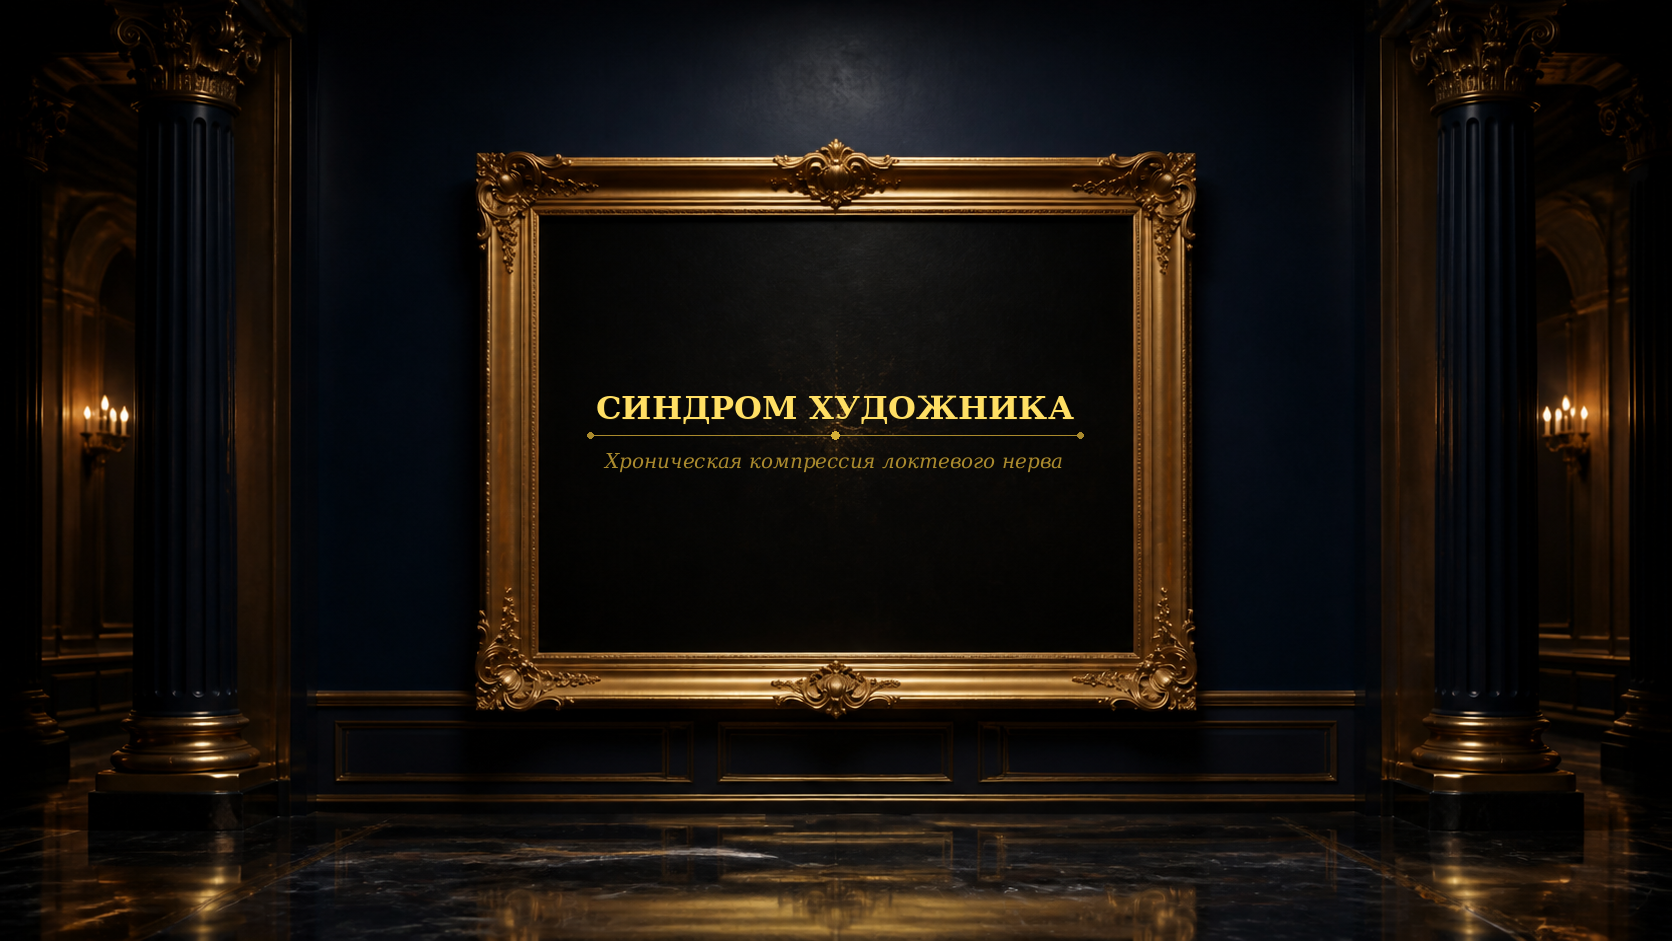
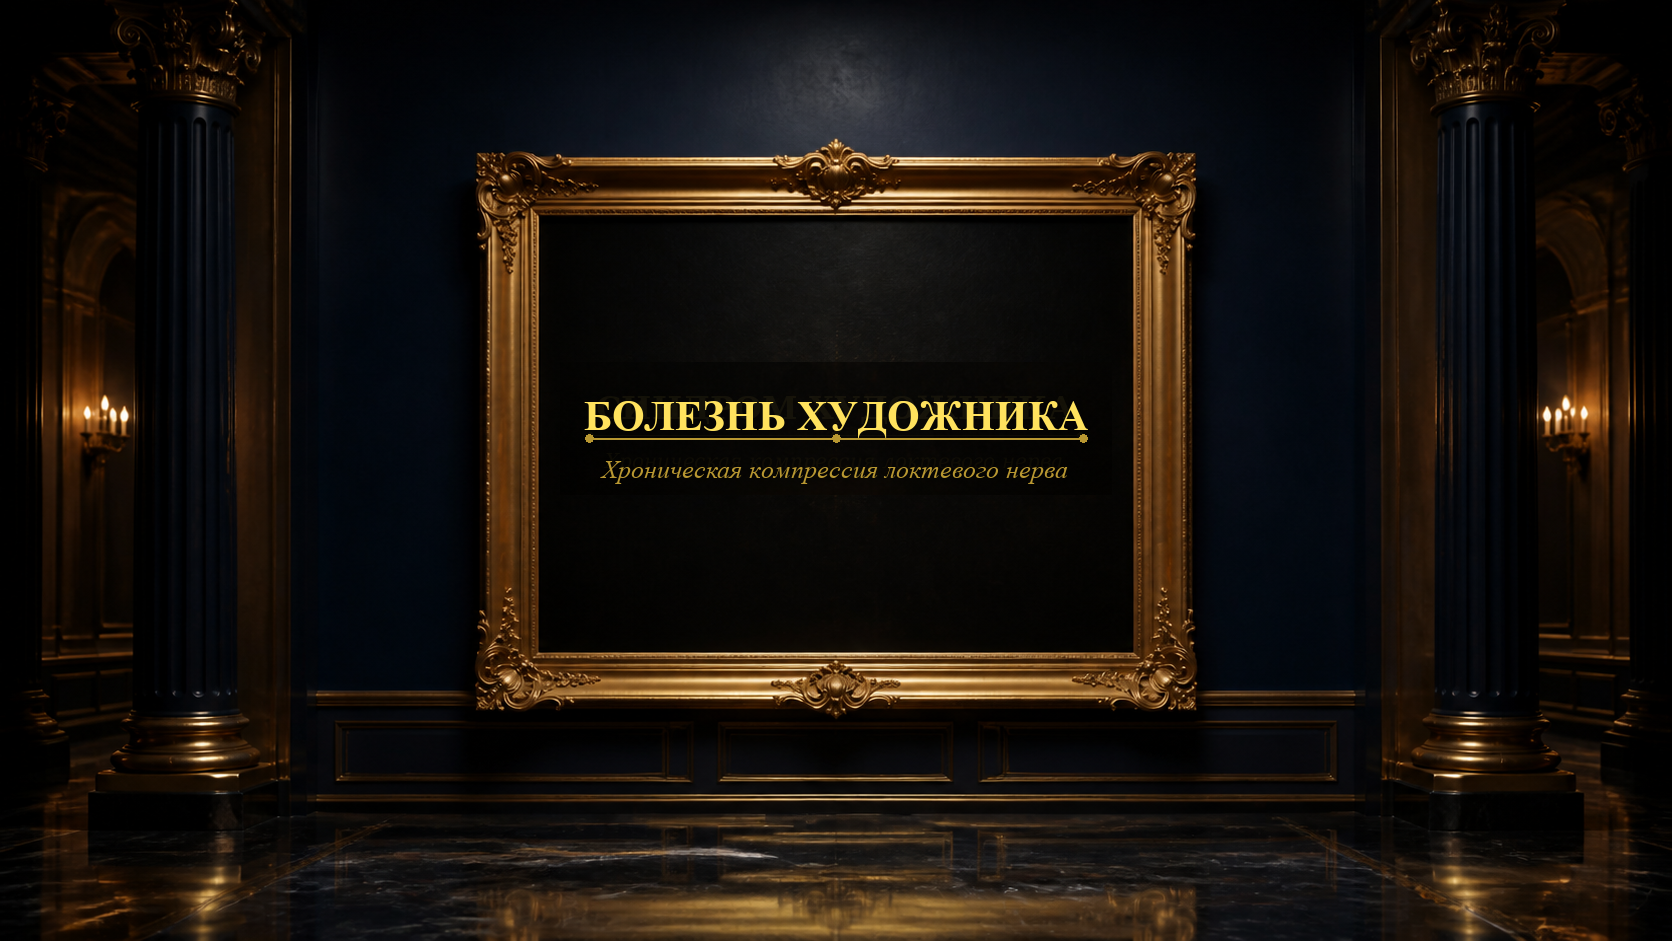
Apply client slide edits

Changed region(s): [[0.3421, 0.4006, 0.6531, 0.5239]]

diff --git a/app.js b/app.js
@@ -7,12 +7,11 @@ const cases = [
     number: "04",
     artworkExt: "png",
     finals: [
-      { id: "case04a", label: "Версия I" },
       { id: "case04b", label: "Версия II" },
     ],
   },
   { id: "case05", number: "05", artworkExt: "png", finals: [{ id: "case05", label: "" }] },
-  { id: "case06a", number: "06", variant: "Версия I", artworkExt: "jpg", finals: [{ id: "case06a", label: "Версия I" }] },
+  { id: "case06a", number: "06", variant: "Версия I", artworkExt: "jpg", skipPhoto: true, skipVideo: true, finals: [{ id: "case06a", label: "Версия I" }] },
   { id: "case06b", number: "06", variant: "Версия II", artworkExt: "png", finals: [{ id: "case06b", label: "Версия II" }] },
   { id: "case07", number: "07", artworkExt: "png", finals: [{ id: "case07", label: "" }] },
   { id: "case08", number: "08", artworkExt: "png", finals: [{ id: "case08", label: "" }] },
@@ -22,7 +21,6 @@ const cases = [
     artworkExt: "png",
     variant: "",
     finals: [
-      { id: "case09a", label: "Версия I" },
       { id: "case09b", label: "Версия II" },
     ],
   },
@@ -30,6 +28,8 @@ const cases = [
 ].map((item) => ({
   ...item,
   variant: item.variant || "",
+  skipPhoto: Boolean(item.skipPhoto),
+  skipVideo: Boolean(item.skipVideo),
   video: `./assets/videos/${item.id}.mp4`,
   poster: `./assets/posters/${item.id}.jpg`,
   artwork: `./assets/artworks/${item.id}.${item.artworkExt}`,
@@ -43,17 +43,20 @@ const openingSlide = {
 
 const slides = [
   openingSlide,
-  ...cases.flatMap((item) => [
-    { type: "case", ...item },
-    { type: "photo", ...item },
-    { type: "video", ...item },
-    ...item.finals.map((final) => ({
-      type: "answer",
-      ...item,
-      final: `./assets/finals/${final.id}.png`,
-      finalLabel: final.label,
-    })),
-  ]),
+  ...cases.flatMap((item) => {
+    const itemSlides = [{ type: "case", ...item }];
+    if (!item.skipPhoto) itemSlides.push({ type: "photo", ...item });
+    if (!item.skipVideo) itemSlides.push({ type: "video", ...item });
+    item.finals.forEach((final) => {
+      itemSlides.push({
+        type: "answer",
+        ...item,
+        final: `./assets/finals/${final.id}.png`,
+        finalLabel: final.label,
+      });
+    });
+    return itemSlides;
+  }),
   openingSlide,
 ];
 

diff --git a/index.html b/index.html
@@ -20,7 +20,7 @@
           <span class="brand-mark">50</span>
           <span>Нейромидин</span>
         </div>
-        <div class="slide-count" id="counter">01 / 48</div>
+        <div class="slide-count" id="counter">01 / 44</div>
         <div class="progress-track"><div id="progress" class="progress"></div></div>
       </footer>
     </main>